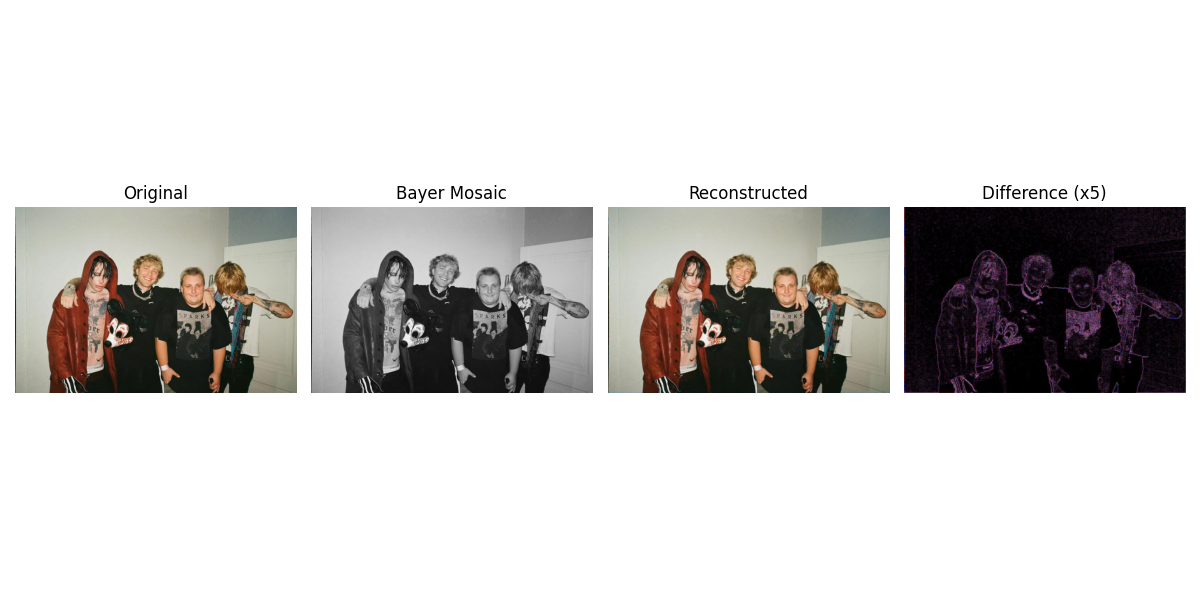
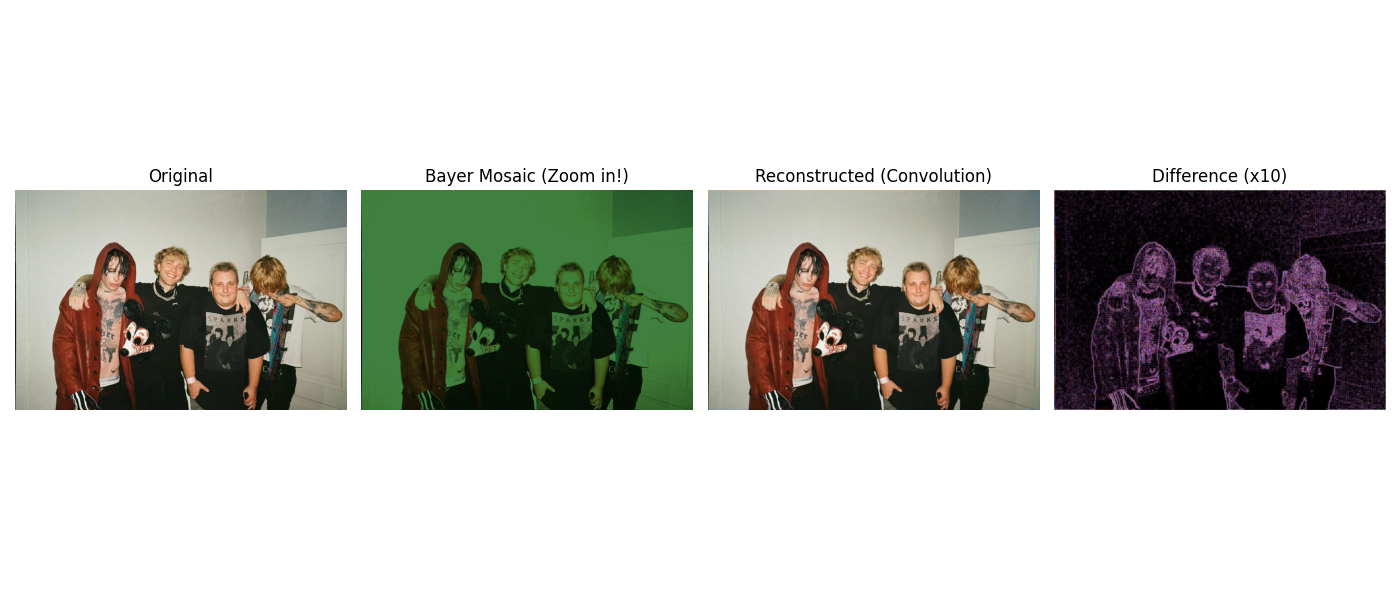
fix mosaic, add comments

Changed region(s): [[0.0, 0.27, 1.0, 0.69]]

diff --git a/lab3/main.py b/lab3/main.py
@@ -41,21 +41,32 @@ W = np.array([
 
 
 def apply_convolution(image, kernel):
+    # convolve2d wykonuje operację splotu.
+    # mode='same' -> obraz wyjściowy ma ten sam rozmiar co wejściowy.
+    # boundary='symm' -> dorabia brakujące piksele na brzegach metodą lustrzanego odbicia.
     res = convolve2d(image, kernel, mode='same', boundary='symm')
+
+    # np.clip i np.abs: upewniamy się, że wartości są dodatnie i mieszczą się w [0, 1]
     return np.clip(np.abs(res), 0, 1)
 
 
 def create_bayer_mosaic(image):
     H, W, _ = image.shape
+    # Upewniamy się, że wymiary są parzyste dla wzoru RGGB
     H = H - (H % 2)
     W = W - (W % 2)
     image = image[:H, :W, :]
 
     mosaic = np.zeros((H, W))
-    mosaic[0::2, 0::2] = image[0::2, 0::2, 0]
-    mosaic[0::2, 1::2] = image[0::2, 1::2, 1]
-    mosaic[1::2, 0::2] = image[1::2, 0::2, 1]
-    mosaic[1::2, 1::2] = image[1::2, 1::2, 2]
+
+    # Symulacja surowej matrycy (Raw). Każdy piksel rejestruje tylko jeden kolor.
+    # Wzór RGGB:
+    # R G
+    # G B
+    mosaic[0::2, 0::2] = image[0::2, 0::2, 0]  # Kanał R
+    mosaic[0::2, 1::2] = image[0::2, 1::2, 1]  # Kanał G
+    mosaic[1::2, 0::2] = image[1::2, 0::2, 1]  # Kanał G
+    mosaic[1::2, 1::2] = image[1::2, 1::2, 2]  # Kanał B
 
     return mosaic
 
@@ -63,6 +74,7 @@ def create_bayer_mosaic(image):
 def demosaic_convolution(mosaic):
     H, W = mosaic.shape
 
+    # Maski wskazujące, gdzie są piksele danego koloru
     R_mask = np.zeros_like(mosaic)
     G_mask = np.zeros_like(mosaic)
     B_mask = np.zeros_like(mosaic)
@@ -72,35 +84,61 @@ def demosaic_convolution(mosaic):
     G_mask[1::2, 0::2] = 1
     B_mask[1::2, 1::2] = 1
 
+    # Rozdzielenie mozaiki na osobne warstwy
     R_raw = mosaic * R_mask
     G_raw = mosaic * G_mask
     B_raw = mosaic * B_mask
 
-    K_RB = np.array([
-        [1, 2, 1],
-        [2, 4, 2],
-        [1, 2, 1]
-    ]) / 4.0
-
+    # Jądro dla Zielonego (G).
+    # Dzielimy przez 4, bo liczymy średnią z 4 sąsiadów (góra, dół, lewo, prawo)
     K_G = np.array([
         [0, 1, 0],
         [1, 4, 1],
         [0, 1, 0]
     ]) / 4.0
 
+    # Jądro dla Czerwonego (R) i Niebieskiego (B).
+    # Interpolacja dwuliniowa (Bilinear)
+    K_RB = np.array([
+        [1, 2, 1],
+        [2, 4, 2],
+        [1, 2, 1]
+    ]) / 4.0
+
+    # Rekonstrukcja kolorów za pomocą splotu
     R_rec = convolve2d(R_raw, K_RB, mode='same', boundary='symm')
     G_rec = convolve2d(G_raw, K_G, mode='same', boundary='symm')
     B_rec = convolve2d(B_raw, K_RB, mode='same', boundary='symm')
 
+    # Łączenie kanałów w jeden obraz RGB
     return np.clip(np.dstack((R_rec, G_rec, B_rec)), 0, 1)
 
 
-def run_filters_demo(filename):
-    img = io.imread(filename)
+def visualize_bayer_pattern(mosaic):
+    H, W = mosaic.shape
+    vis = np.zeros((H, W, 3))
 
+    vis[0::2, 0::2, 0] = mosaic[0::2, 0::2]  # R
+    vis[0::2, 1::2, 1] = mosaic[0::2, 1::2]  # G
+    vis[1::2, 0::2, 1] = mosaic[1::2, 0::2]  # G
+    vis[1::2, 1::2, 2] = mosaic[1::2, 1::2]  # B
+
+    # Mnożymy przez 1.5 dla lepszej widoczności (rozjaśnienie)
+    return np.clip(vis * 1.5, 0, 1)
+
+
+def run_filters_demo(filename):
+    try:
+        img = io.imread(filename)
+    except FileNotFoundError:
+        print(f"Nie znaleziono pliku: {filename}")
+        return
+
+    # Konwersja na odcienie szarości, jeśli obraz jest kolorowy
     if len(img.shape) == 3:
         img = color.rgb2gray(img)
 
+    # Normalizacja do zakresu [0.0, 1.0] dla obliczeń
     img = img.astype(float)
     if img.max() > 1.0:
         img /= 255.0
@@ -131,6 +169,7 @@ def run_filters_demo(filename):
         plt.title(name)
         plt.axis('off')
 
+    # Obliczenie magnitudy Sobela: sqrt(Sx^2 + Sy^2)
     sobel_comb = np.sqrt(results["Sobel X"] ** 2 + results["Sobel Y"] ** 2)
     sobel_comb = np.clip(sobel_comb, 0, 1)
 
@@ -150,22 +189,29 @@ def run_demosaicing_demo(filename):
     if len(img_rgb.shape) == 3 and img_rgb.shape[2] == 4:
         img_rgb = color.rgba2rgb(img_rgb)
     elif len(img_rgb.shape) == 2:
-        print("Error: Image for demosaicing must be color (RGB).")
+        print("Błąd: Obraz musi być kolorowy.")
         return
 
     img_rgb = img_rgb.astype(float)
     if img_rgb.max() > 1.0:
         img_rgb /= 255.0
 
+    # 1. Tworzymy sztuczną mozaikę
     mosaic = create_bayer_mosaic(img_rgb)
+
+    # 2. Rekonstruujemy obraz (demozaikowanie)
     img_rec = demosaic_convolution(mosaic)
 
+    # Przycinamy oryginał do rozmiaru mozaiki (jeśli był nieparzysty)
     H, W, _ = img_rec.shape
     img_rgb = img_rgb[:H, :W, :]
 
+    # Obliczamy różnicę między oryginałem a rekonstrukcją
     diff = np.abs(img_rgb - img_rec)
 
-    plt.figure(figsize=(12, 6))
+    mosaic_vis = visualize_bayer_pattern(mosaic)
+
+    plt.figure(figsize=(14, 6))
 
     plt.subplot(1, 4, 1)
     plt.imshow(img_rgb)
@@ -173,18 +219,18 @@ def run_demosaicing_demo(filename):
     plt.axis('off')
 
     plt.subplot(1, 4, 2)
-    plt.imshow(mosaic, cmap='gray')
+    plt.imshow(mosaic_vis)
     plt.title("Bayer Mosaic")
     plt.axis('off')
 
     plt.subplot(1, 4, 3)
     plt.imshow(img_rec)
-    plt.title("Reconstructed")
+    plt.title("Reconstructed (Convolution)")
     plt.axis('off')
 
     plt.subplot(1, 4, 4)
-    plt.imshow(np.clip(diff * 5, 0, 1))
-    plt.title("Difference (x5)")
+    plt.imshow(np.clip(diff * 10, 0, 1))
+    plt.title("Difference (x10)")
     plt.axis('off')
 
     plt.tight_layout()
